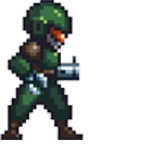
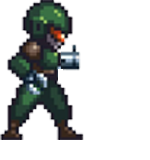
done all animations

Changed region(s): [[0.3733, 0.25, 0.5333, 0.5312]]

diff --git a/src/window_state.py b/src/window_state.py
@@ -103,6 +103,16 @@ class GameState (State):
         self.projectiles = []
         self.dead_enemies = []
 
+        self.soldier = []
+        self.soldier.append(pygame.image.load('assets/soldier1.png'))
+        self.soldier.append(pygame.image.load('assets/soldier2.png'))
+        self.soldier.append(pygame.image.load('assets/soldier3.png'))
+        self.soldier.append(pygame.image.load('assets/soldier4.png'))
+        self.soldier.append(pygame.image.load('assets/soldier5.png'))
+        self.soldier_index = 0
+
+        self.firing = False
+
         height = self.window.get_height()
         self.player = rect(50,height*4/5,80,200,window.__surface__, 'yellow', 'soldier.png')
 
@@ -155,14 +165,22 @@ class GameState (State):
 
             if dead_enemy.index >= 5:
                 self.dead_enemies.pop(0)
-                
+
         for enemy in self.enemies:
             enemy.rect.draw()
         for projectile in self.projectiles:
             projectile.draw()
 
-        self.player.draw()
-
+        if self.firing == True:
+            self.player.set_content(self.soldier[self.soldier_index])
+            self.player.draw()
+            if self.soldier_index >= 4:
+                self.soldier_index = 0
+                self.firing = False
+            else:
+                self.soldier_index += 1
+        else:
+            self.player.draw()
         self.window.draw_string('Time: ' + str(self.score),  self.window.get_width() - self.window.get_string_width('Time: ' + str(self.score)), 30, pygame.Color(5,44,70,100))
 
 
@@ -195,9 +213,10 @@ class GameState (State):
 
     def spawn_bullet(self):
         height = self.window.get_height()
-        bullet = rect(100,height*4/5+67,30,5,self.window.__surface__, 'gray', 'bullet.png')
+        bullet = rect(100,height*4/5+57,30,5,self.window.__surface__, 'gray', 'bullet.png')
         self.projectiles.append(bullet)
         self.bullet_count -= 1
+        self.firing = True
 
 
     def end_game(self):
